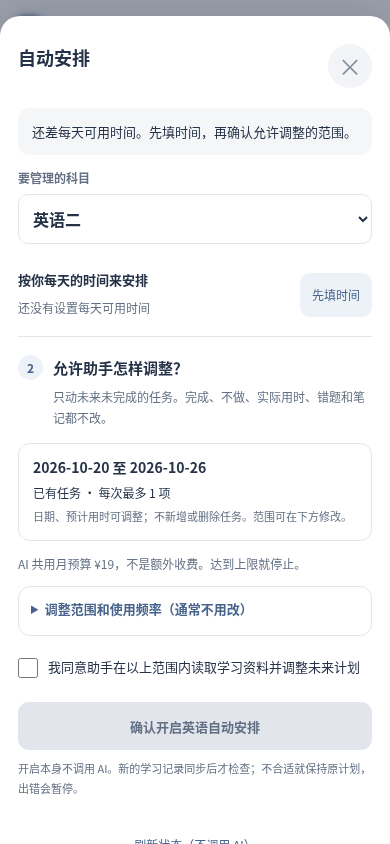
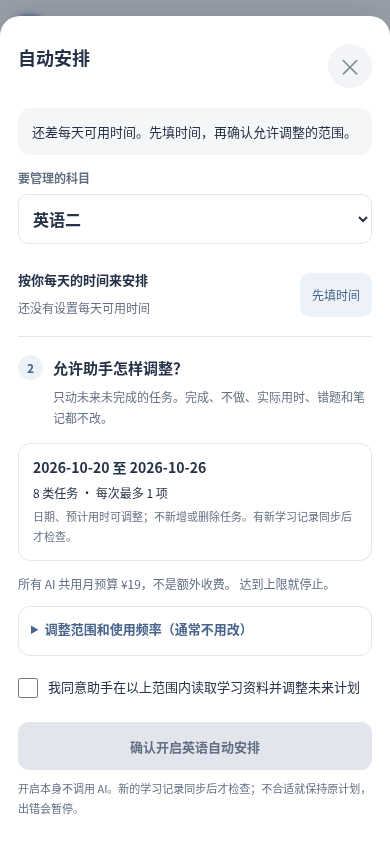
fix: keep setup consent aligned with edits and verify real sync flow

diff --git a/study-assistant.js b/study-assistant.js
@@ -256,6 +256,7 @@ document.addEventListener('click',async e=>{
  if(action==='retry'&&pending){await persist(null,true);return;}
  if(action==='history'){const ticket=epoch;lock(true);try{const history=await call('/history');if(ticket!==epoch)return;$('memory-history-list').innerHTML='<h3>最近旧版本</h3>'+history.versions.map(v=>'<details><summary>版本 '+Number(v.revision)+' · '+escape(v.updatedAt)+'</summary>'+v.document.entries.map(e=>card(e,true)).join('')+'</details>').join('');message('旧版本只供查看，修改请使用当前档案。');}catch(error){if(ticket===epoch)message(error.message||'旧版本暂时不可用。');}finally{if(ticket===epoch)lock(false);}}
 });
+document.addEventListener('input',e=>{if(!active||busy||!profile||!['memory-daily','memory-course'].includes(e.target.id))return;const p=root.BanyaStudySetup.policy(profile,subject),changed=$('memory-daily').value!==String(p.minutes??'')||(subject==='politics'&&$('memory-course').value!==String(p.course?.value.minutes??''));$('memory-next').disabled=changed;if(changed)message('时间有修改，先点“保存学习时间”，再继续设置自动安排。');});
 document.addEventListener('change',e=>{if(!active||busy)return;if(e.target.id==='memory-subject'){void open(e.target.value);return;}if(e.target.id==='memory-category'){const category=e.target.value;if(category==='history')$('memory-temporal').value='historical';else $('memory-temporal').value='current';$('memory-source-options').open=['history','progress'].includes(category);}if(e.target.id==='memory-temporal'&&e.target.value==='historical')$('memory-source-options').open=true;});
 document.addEventListener('keydown',e=>{if(active&&e.key==='Escape')close();});
 document.addEventListener('banya-modal-dismiss',()=>{if(active)close();});
@@ -278,6 +279,15 @@ function saveState(){
  $('auto-save').textContent=g?.enabled&&status.control.enabled&&g.config?.end>=root.BanyaStudySetup.day(1)?'确认保存调整范围':'确认开启'+(current==='english'?'英语':'政治')+'自动安排';
  $('auto-save').disabled=busy||!status.serverReady||p.minutes===null||!$('auto-consent').checked;
 }
+function scopePreview(){
+ if(!active||!status||!$('auto-scope'))return;
+ const checked=id=>$('auto-'+id).checked,num=id=>Number($('auto-'+id).value);
+ const fields=['date','title','detail','minutes'].filter(k=>checked('field-'+k)).map(k=>({date:'日期',title:'名称',detail:'任务说明',minutes:'预计用时'})[k]);
+ const selected=types[current].filter((_,i)=>checked('type-'+i));
+ $('auto-scope').innerHTML='<b>'+esc($('auto-start').value)+' 至 '+esc($('auto-end').value)+'</b><span>'+selected.length+' 类任务 · 每次最多 '+num('max')+' 项</span><small>'+esc(fields.join('、')||'还未选择可修改内容')+'可调整；'+(checked('add')?'允许新增任务，不能删除任务。':'不新增或删除任务。')+(checked('periodic')?'允许定期检查。':'有新学习记录同步后才检查。')+'</small>';
+ const total=ai?.monthlyBudget??ai?.monthlyBudgetUsd,symbol=status.currency==='CNY'?'¥':'$';
+ $('auto-fee').textContent=(total===undefined?'总费用以 AI 设置中的预算为准。':'所有 AI 共用月预算 '+symbol+total+'，不是额外收费。')+(num('budget')!==total?' 本学科自动安排最多 '+symbol+num('budget')+'/月。':'')+' 达到上限就停止。';
+}
 function form(){
  const g=grant(),c=g?.config||{},p=root.BanyaStudySetup.policy(profile,current),name=current==='english'?'英语二':'政治';
  const localDate=root.BanyaStudySetup.day;
@@ -289,8 +299,8 @@ function form(){
  $('auto-form').innerHTML='<label class="form-line"><span>要管理的科目</span><select id="auto-subject"><option value="english" '+(current==='english'?'selected':'')+'>英语二</option><option value="politics" '+(current==='politics'?'selected':'')+'>政治</option></select></label>'
  +'<section class="setup-time-summary"><div><b>按你每天的时间来安排</b><p>'+(p.minutes===null?'还没有设置每天可用时间':name+'每天通常 '+p.minutes+' 分钟'+(current==='english'?'，不含背单词':'')+(current==='politics'&&p.course?'；看课最多 '+p.course.value.minutes+' 分钟':''))+'</p></div><button type="button" data-auto-action="time">'+(p.minutes===null?'先填时间':'修改时间')+'</button></section>'
  +'<div class="setup-step"><span>2</span><div><h3>允许助手怎样调整？</h3><p>只动未来未完成的任务。完成、不做、实际用时、错题和笔记都不改。</p></div></div>'
- +'<div class="setup-scope"><b>'+esc(rangeStart)+' 至 '+esc(rangeEnd)+'</b><span>已有任务 · 每次最多 '+Number(c.maxChanges||1)+' 项</span><small>'+((c.fields||['date','minutes']).map(k=>({date:'日期',title:'名称',detail:'任务说明',minutes:'预计用时'})[k]).join('、'))+'可调整；'+(c.allowAdd?'允许新增任务，不能删除任务。':'不新增或删除任务。')+'范围可在下方修改。</small></div>'
- +'<p class="setup-fee">'+(budget===null?'总费用以 AI 设置中的月预算为准。':'AI 共用月预算 '+symbol+Number(budget)+'，不是额外收费。达到上限就停止。')+'</p>'
+ +'<div class="setup-scope" id="auto-scope"><b>'+esc(rangeStart)+' 至 '+esc(rangeEnd)+'</b><span>已有任务 · 每次最多 '+Number(c.maxChanges||1)+' 项</span><small>'+((c.fields||['date','minutes']).map(k=>({date:'日期',title:'名称',detail:'任务说明',minutes:'预计用时'})[k]).join('、'))+'可调整；'+(c.allowAdd?'允许新增任务，不能删除任务。':'不新增或删除任务。')+'范围可在下方修改。</small></div>'
+ +'<p class="setup-fee" id="auto-fee">'+(budget===null?'总费用以 AI 设置中的月预算为准。':'AI 共用月预算 '+symbol+Number(budget)+'，不是额外收费。达到上限就停止。')+'</p>'
  +'<details class="record-extra"><summary>调整范围和使用频率（通常不用改）</summary><div class="writing-time-fields"><label class="form-line"><span>从哪天开始</span><input type="date" id="auto-start" min="'+tomorrow+'" value="'+esc(rangeStart)+'" required></label><label class="form-line"><span>到哪天结束（最多30天）</span><input type="date" id="auto-end" min="'+tomorrow+'" value="'+esc(rangeEnd)+'" required></label></div><fieldset><legend>可以调整哪些任务</legend>'+types[current].map((t,i)=>checkbox('type-'+i,esc(t),(c.types||types[current].filter(t=>t!=='模考'&&t!=='模拟')).includes(t))).join('')+'</fieldset><fieldset><legend>可以修改哪些内容</legend>'+[['date','日期'],['title','名称'],['detail','任务说明'],['minutes','预计用时']].map(([k,v])=>checkbox('field-'+k,v,(c.fields||['date','minutes']).includes(k))).join('')+'</fieldset>'
  +checkbox('add','允许新增任务',c.allowAdd)+checkbox('periodic','即使没有新记录，也允许定期检查安排',c.periodic)+checkbox('review','允许分析具体错题题号与笔记',c.shareReview)
  +[['max','每次最多调整几项',c.maxChanges||1,1,3],['daily','每天最多自动分析几次',c.dailyCalls||1,1,3],['weekly','每周最多自动分析几次',c.weeklyCalls||3,1,10],['monthly','每月最多自动分析几次',c.monthlyCalls||10,1,40],['cooldown','两次分析至少间隔（小时）',c.cooldownHours||12,6,168]].map(([id,label,value,min,max])=>'<label class="form-line"><span>'+label+'</span><input id="auto-'+id+'" type="number" min="'+min+'" max="'+max+'" value="'+value+'" required></label>').join('')
@@ -299,7 +309,7 @@ function form(){
  $('auto-form').insertAdjacentHTML('beforeend',(g?.enabled?'<button type="button" class="cta ghost" data-auto-action="pause">暂停本学科自动安排</button>':'')+(live?'<button type="button" class="cta secondary" data-auto-action="check">现在检查一次</button>':'')+'<button type="button" class="setup-refresh" data-auto-action="reload">刷新状态（不调用 AI）</button>');
  $('auto-master').textContent='暂停所有科目的自动安排';$('auto-master').hidden=historyOnly||!status.control.enabled;$('auto-master').disabled=busy;
  $('auto-form').hidden=historyOnly;
- saveState();
+ scopePreview();saveState();
  const labels={applied:'已调整计划',undone:'已撤销',no_change:'维持原计划',stopped:'已暂停，请核对设置',pending:'正在分析',unknown:'结果待核实'};
  const codes={planning_budget_unknown:'请先补充每天可用时间，再重新开启。',permission_expired:'授权日期已结束，可以重新选择日期范围。',planning_budget_exceeded:'任务超出可用时间，这次没有修改。',automatic_result_unknown:'本次结果未确认，已暂停，不会自动重试。',restart_result_unknown:'服务恢复后已暂停，避免重复调用。',permission_changed:'授权有变化，这次没有写入。'};
  $('auto-runs').innerHTML=status.runs.some(r=>r.subject===current)?status.runs.filter(r=>r.subject===current).map(r=>'<article class="ai-proposal"><h3>'+esc(name)+' · '+esc(labels[r.status]||'已停止')+'</h3><p>'+esc(r.result?.summary||r.result?.reason||codes[r.code]||'可以核对范围后重新开启，已有学习记录保留。')+'</p><p class="setting-note">'+esc(new Date(r.createdAt*1000).toLocaleString())+'</p>'+(r.result?.changes||[]).map(x=>changeCard(x,r.result?.reasons||[])).join('')+(r.status==='applied'?'<button type="button" class="cta ghost" data-auto-action="undo" data-run="'+esc(r.id)+'" data-subject="'+r.subject+'">撤销这次调整</button>':'')+'</article>').join(''):'<p class="setting-note">还没有自动调整。开启并同步新的学习记录后，有必要时才会调整；维持原计划也是正常结果。</p>';
@@ -307,7 +317,8 @@ function form(){
 async function load(){const ticket=epoch,selected=current;const results=await Promise.allSettled([api('status'),root.BanyaCloudSync.assistantRequest('profiles/'+selected),root.BanyaCloudSync.assistantRequest('status')]);if(!active||ticket!==epoch||selected!==current)return;if(results[0].status!=='fulfilled')throw Error('自动安排状态未确认');status=results[0].value;profile=results[1].status==='fulfilled'?results[1].value:null;ai=results[2].status==='fulfilled'?results[2].value:null;form();if(!profile)$('auto-ready').textContent='学习时间暂时没读到，无法确认开启；你仍可以暂停已有授权或刷新状态。';}
 async function open(subject,history=false){if(active||busy)return;if(!root.BanyaCloudSync?.isConnected()){root.alert('请先在设置连接云同步，再使用私人自动安排。');return;}current=types[subject]?subject:'english';historyOnly=history;active=true;epoch++;const box=$('modal');box.innerHTML='<div class="modal-card setup-sheet'+(history?' auto-history-mode':'')+'"><header class="modal-head"><h2>'+(history?'计划调整记录':'自动安排')+'</h2><button type="button" class="close" data-auto-action="close" aria-label="关闭自动安排">×</button></header><p id="auto-ready" class="setup-status">正在读取设置…</p><p id="auto-state" role="status" tabindex="-1"></p><form id="auto-form"></form><button type="button" id="auto-master" class="cta ghost" data-auto-action="master" hidden disabled>暂停所有科目自动安排</button><details class="auto-history" id="auto-history"><summary>查看调整历史与撤销</summary><div id="auto-runs"></div></details></div>';box.classList.remove('hidden');document.body.classList.add('modal-open');try{await load();if(active&&history)$('auto-history').open=true;}catch(error){say('暂时没读到设置。请联网后重新打开，不会自动开启或修改计划。');}}
 async function operation(fn){if(!active||busy||!status)return;const ticket=epoch;busy=true;$('auto-form').querySelectorAll('button,input,select').forEach(x=>x.disabled=true);$('auto-master').disabled=true;say('正在保存，请稍候…');try{const result=await fn();if(!active||ticket!==epoch)return;await load();say(result||'设置已保存。');if(typeof Event==='function')document.dispatchEvent?.(new Event('banya-ai-status-change'));}catch(error){if(active&&ticket===epoch){try{await load();}catch{}say('操作结果还需核对，上方状态可能未更新。请点“刷新状态”，不要重复开启或检查。');}}finally{busy=false;if(active&&ticket===epoch){$('auto-form').querySelectorAll('button,input,select').forEach(x=>x.disabled=false);$('auto-master').disabled=false;saveState();}}}
-document.addEventListener('change',e=>{if(!active||busy)return;if(e.target.id==='auto-subject'){current=e.target.value;status=null;epoch++;$('auto-form').innerHTML='';$('auto-ready').textContent='正在读取本学科设置…';void load().catch(()=>say('读取失败，请重新打开核对。'));return;}if(e.target.id==='auto-consent')saveState();});
+document.addEventListener('input',e=>{if(!active||busy||!status||!e.target.id?.startsWith('auto-')||e.target.id==='auto-consent')return;$('auto-consent').checked=false;scopePreview();saveState();});
+document.addEventListener('change',e=>{if(!active||busy)return;if(e.target.id==='auto-subject'){current=e.target.value;status=null;epoch++;$('auto-form').innerHTML='';$('auto-ready').textContent='正在读取本学科设置…';void load().catch(()=>say('读取失败，请重新打开核对。'));return;}if(e.target.id==='auto-consent'){saveState();return;}if(e.target.id?.startsWith('auto-')){$('auto-consent').checked=false;scopePreview();saveState();}});
 document.addEventListener('submit',e=>{
  if(e.target.id!=='auto-form')return;e.preventDefault();if(!active||busy||!status)return;
  const on=id=>$('auto-'+id).checked,num=id=>Number($('auto-'+id).value);
@@ -329,7 +340,7 @@ root.BanyaAutoManagement={open};
 (function(root){'use strict';
 let active=false,busy=false,epoch=0,status=null;
 const $=id=>document.getElementById(id),api=(path,method='GET',body)=>root.BanyaCloudSync.assistantRequest(path,method,body);
-function close(){epoch++;active=false;status=null;profile=null;ai=null;$('modal').classList.add('hidden');$('modal').innerHTML='';document.body.classList.remove('modal-open');}
+function close(){epoch++;active=false;status=null;$('modal').classList.add('hidden');$('modal').innerHTML='';document.body.classList.remove('modal-open');}
 function show(){if(!active)return;$('activation-info').textContent=status.ready?'AI 已启用。只有主动发送消息，或已授权的自动管理满足条件时，才可能产生费用。':status.configuredReady?'服务器配置已准备好，等待你的启用确认。':'服务器未准备好，当前不会调用付费模型。';$('activation-budget').textContent=root.BanyaAIBilling.format(status)+'。达到预算后暂停；超时不自动重试。';const b=$('activation-save');b.textContent=status.activation.enabled?'暂停所有 AI 调用':'确认启用 AI 调用';b.disabled=!status.configuredReady&&!status.activation.enabled;}
 async function open(){if(active||busy)return;active=true;const ticket=++epoch;const box=$('modal');box.innerHTML='<div class="modal-card"><header class="modal-head"><h2>AI 启用与费用</h2><button type="button" class="close" data-activation-action="close" aria-label="关闭">×</button></header><p id="activation-info">正在查询配置…</p><p class="setting-note" id="activation-budget"></p><p class="setting-note">密钥只保存在服务器。这里不会显示或接收密钥；查询状态和切换开关不会调用模型。自动调整未来计划还需要单独的科目授权。</p><button type="button" class="cta" id="activation-save" data-activation-action="save" disabled>等待配置</button><p id="activation-state" role="status"></p></div>';box.classList.remove('hidden');document.body.classList.add('modal-open');try{const result=await api('status');if(active&&ticket===epoch){status=result;show();}}catch(error){if(active&&ticket===epoch)$('activation-state').textContent=error.message;}}
 document.addEventListener('click',async e=>{const b=e.target.closest('[data-activation-action]');if(!b)return;const action=b.dataset.activationAction;if(action==='open'){open();return;}if(action==='close'){close();return;}if(action!=='save'||!active||busy||!status)return;const enabled=!status.activation.enabled;if(enabled&&!confirm('按显示的费用与次数上限启用 AI？主动聊天和已授权的自动规划会产生 API 费用。'))return;busy=true;b.disabled=true;const ticket=epoch;try{await api('activation','POST',{expectedRevision:status.activation.revision,enabled,currency:status.currency||'USD',confirmation:'set_ai_activation'});const result=await api('status');if(active&&ticket===epoch){status=result;show();$('activation-state').textContent='开关已保存，本次没有调用模型。';if(typeof Event==='function')document.dispatchEvent?.(new Event('banya-ai-status-change'));}}catch(error){if(active&&ticket===epoch)$('activation-state').textContent=(error.message||'未能确认结果')+'。请重新打开核对，勿重复提交。';}finally{busy=false;}});

diff --git a/scripts/integration_browser.py b/scripts/integration_browser.py
@@ -49,9 +49,9 @@ def run(executable=None):
                 page.wait_for_function("document.getElementById('ai-home-status').textContent.includes('未启用')");assert not calls
                 page.locator('[data-activation-action="open"]').click();page.wait_for_selector('#activation-save:not([disabled])');page.locator('#activation-save').click();page.wait_for_function("document.getElementById('activation-state').textContent.includes('开关已保存')");page.keyboard.press('Escape');page.wait_for_timeout(100)
                 assert not calls
-                page.locator('[data-auto-action="open"]').first.click();page.wait_for_selector('#auto-enabled')
-                page.locator('#auto-enabled').check();page.locator('#auto-budget').fill('1');page.locator('#auto-form details summary').click();page.locator('#auto-type-0').check();page.locator('#auto-consent').check();page.locator('#auto-form button[type="submit"]').click();page.wait_for_function("document.getElementById('auto-state').textContent==='本学科授权已保存。'")
-                page.locator('#auto-master').click();page.wait_for_function("document.getElementById('auto-state').textContent==='总开关已更新。'");page.keyboard.press('Escape');page.wait_for_timeout(100)
+                page.locator('[data-auto-action="open"]').first.click();page.wait_for_selector('#auto-save')
+                page.locator('#auto-form details summary').click();page.locator('#auto-budget').fill('1');page.locator('#auto-consent').check();page.locator('#auto-save').click();page.wait_for_function("document.getElementById('auto-state').textContent.includes('已开启。新的学习记录')")
+                assert client.get('/v1/ai/auto/status',headers=OWNER_AUTH).json()['control']['enabled'];page.keyboard.press('Escape');page.wait_for_timeout(100)
                 page.locator('[data-view="today"]').click()
                 def note(text):
                     page.locator('.student-task-body').first.click()
@@ -72,8 +72,9 @@ def run(executable=None):
                 assert page.evaluate('(key)=>JSON.parse(localStorage.getItem(key))',KEYS[subject])['edits'][task]['minutes']==19
                 page.locator('[data-view="assistant"]').click();page.locator('[data-auto-action="open"][data-history="true"]').click();page.wait_for_selector('[data-auto-action="undo"]')
                 page.wait_for_function('!BanyaCloudSync.isSyncing()')
-                page.locator('[data-auto-action="undo"]').click()
-                page.wait_for_function('(key)=>JSON.parse(localStorage.getItem(key)).revision===4',arg='banya_cloud_sync_meta_v1_'+subject)
+                with page.expect_response(lambda r:'/v1/ai/auto/runs/' in r.url and r.url.endswith('/undo') and r.status==200):page.locator('[data-auto-action="undo"]').click()
+                undo_revision=snapshot()['revision']
+                page.wait_for_function('(x)=>JSON.parse(localStorage.getItem(x.key)).revision===x.revision',arg={'key':'banya_cloud_sync_meta_v1_'+subject,'revision':undo_revision})
                 page.wait_for_selector('[data-ai-home-subject]');page.wait_for_selector('#modal.hidden',state='attached')
                 local=page.evaluate('(key)=>JSON.parse(localStorage.getItem(key))',KEYS[subject]);assert task not in local['edits']
                 assert local['notes']==before['record']['notes'];assert not client.get('/v1/ai/auto/status',headers=OWNER_AUTH).json()['grants'][0]['enabled']

diff --git a/scripts/visual_acceptance.py b/scripts/visual_acceptance.py
@@ -143,11 +143,11 @@ def run(output,executable):
                     page.locator('[data-auto-action="open"]').first.click();page.wait_for_selector('#auto-save');assert page.locator('#auto-save').is_disabled();shot('setup-missing-time')
                     assert not client.get('/v1/ai/auto/status',headers=OWNER_AUTH).json()['control']['enabled']
                     page.locator('[data-auto-action="time"]').click();page.wait_for_selector('#memory-daily');assert page.locator('#memory-daily').input_value()==''
-                    page.locator('#memory-daily').fill('88' if subject=='english' else '68');page.locator('#memory-time-save').click();page.wait_for_function("document.getElementById('memory-state').textContent.includes('已保存')");assert len(calls)==1
+                    page.locator('#memory-daily').fill('88' if subject=='english' else '68');assert page.locator('#memory-next').is_disabled();page.locator('#memory-time-save').click();page.wait_for_function("document.getElementById('memory-state').textContent.includes('已保存')");assert len(calls)==1
                     assert snapshots_before=={s:client.get('/v1/snapshot/'+s,headers=PROTO).json() for s in ('english','politics')}
                     shot('setup-time-saved');page.locator('#memory-next').click();page.wait_for_selector('#auto-save');assert not page.locator('#auto-consent').is_checked();shot('auto-permission')
                     page.locator('#modal').dispatch_event('click');page.wait_for_timeout(100);page.locator('[data-auto-action="open"]').first.click();page.wait_for_selector('#auto-save')
-                    page.locator('#auto-form details summary').click();page.locator('#auto-budget').fill('1');page.locator('#auto-consent').check();page.locator('#auto-save').click();page.wait_for_function("document.getElementById('auto-state').textContent.includes('已开启。新的学习记录')")
+                    page.locator('#auto-form details summary').click();page.locator('#auto-budget').fill('1');page.locator('#auto-consent').check();page.locator('#auto-max').fill('2');assert not page.locator('#auto-consent').is_checked();assert page.locator('#auto-save').is_disabled();assert '最多 2 项' in page.locator('#auto-scope').inner_text();page.locator('#auto-consent').check();page.locator('#auto-save').click();page.wait_for_function("document.getElementById('auto-state').textContent.includes('已开启。新的学习记录')")
                     assert client.get('/v1/ai/auto/status',headers=OWNER_AUTH).json()['control']['enabled'];assert len(calls)==1
                     page.locator('[data-auto-action="check"]').click();page.wait_for_function("document.getElementById('auto-state').textContent.includes('已提交检查')")
                     assert app.state.autonomy.process_one()=='applied';assert len(calls)==2;dismiss()

diff --git a/docs/ASSISTANT_SETUP.md b/docs/ASSISTANT_SETUP.md
@@ -14,8 +14,8 @@
 ## 这次修复的交互
 
 - 聊天固定输入栏只作用于 `.ai-chat-sheet`。档案、免费诊断和自动安排继续独立滚动，避免复用 `.ai-sheet` 后表单被裁掉。
-- 时间设置是首屏独立表单，保存后显示下一步。目标、历史、规则及来源放入选填区域，不再要求先理解通用档案字段。
-- 自动安排按“已有时间 → 允许范围 → 一次确认”呈现。本人确认保存科目授权后，必要时启用总开关；不再要求来回切换两道开关。读取页面不会创建授权。
+- 时间设置是首屏独立表单，保存后显示下一步；未保存的时间修改不能进入下一步。目标、历史、规则及来源放入选填区域，不再要求先理解通用档案字段。
+- 自动安排按“已有时间 → 允许范围 → 一次确认”呈现。本人确认保存科目授权后，必要时启用总开关；不再要求来回切换两道开关。读取页面不会创建授权。日期、任务类型或限额变动时实时更新摘要，并清除上一次范围确认。
 - 总费用从现有 AI 状态读取，说明自动安排与聊天共用总预算；后台频率和科目费用限制放入可展开选项，不假装取消服务器保护。
 - 开启后提供本学科暂停、现在检查一次和免费刷新。检查按钮只提交现有去重队列，有调整必要且预算允许时才进入模型。不会因打开页面或保存时间调用模型。
 - 授权到期明确说明需要重新确认；重新保存的起始日只能是未来，不把旧授权悄悄续期。
@@ -45,4 +45,4 @@
 
 完整 360×800、390×844、412×915 双科 PNG 与 HTML 索引随 Validate planner 的 mobile-acceptance artifact 下载。测试包含未知时间 → 私人档案保存 → 一次开启 → 检查 → 模拟调整 → 撤销，另覆盖选填表单与免费诊断滚动、返回、草稿、离线缓存及同步隔离。
 
-本轮本地验证：166 项 Node、165 项 Python、隐私／语法／ECS 静态包检查通过；108 张手机尺寸截图、6 组双科浏览器流程通过。真实 DeepSeek 请求为零，未执行 Android 真机或生产自动调整验收。
+本轮本地验证：169 项 Node、165 项 Python、隐私／语法／ECS 静态包检查通过；108 张手机尺寸截图、6 组双科浏览器流程通过。真实 DeepSeek 请求为零，未执行 Android 真机或生产自动调整验收。
